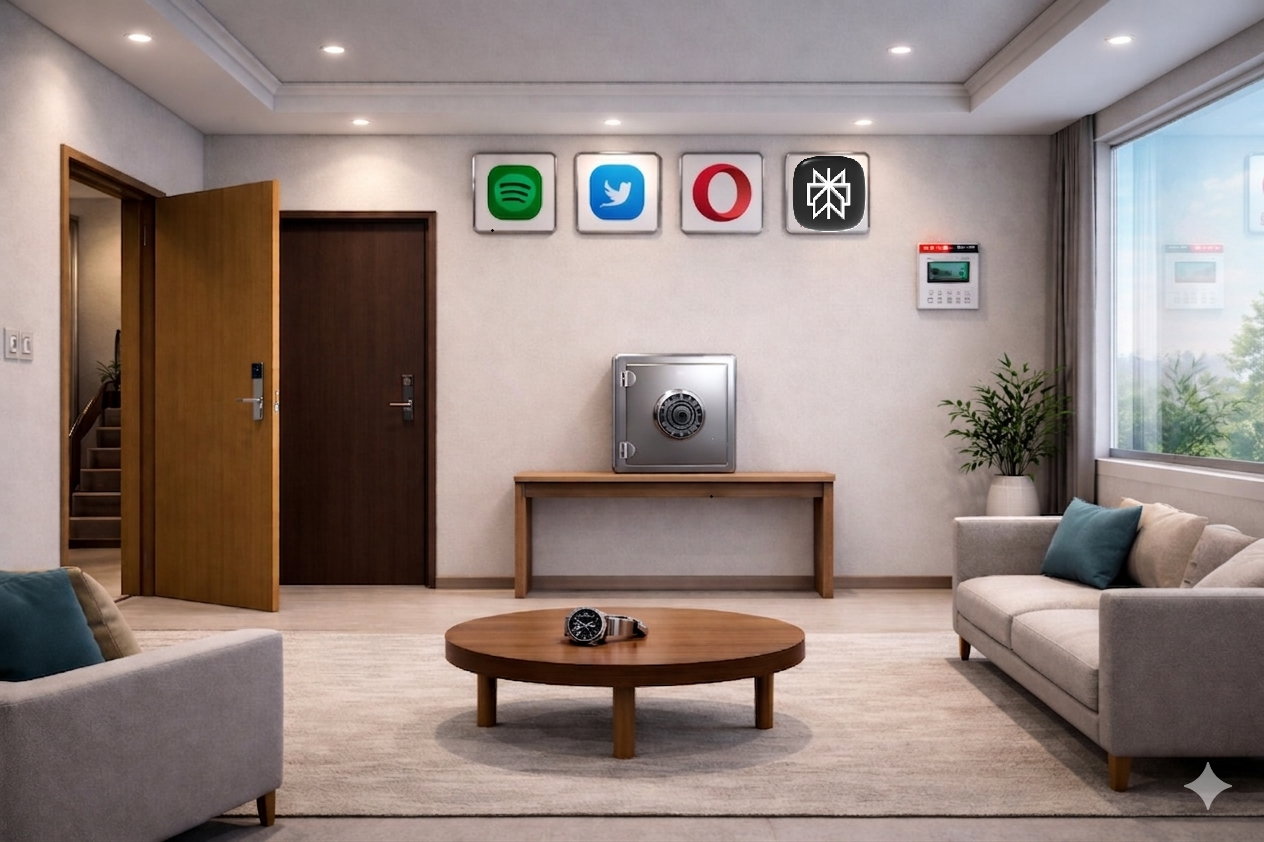
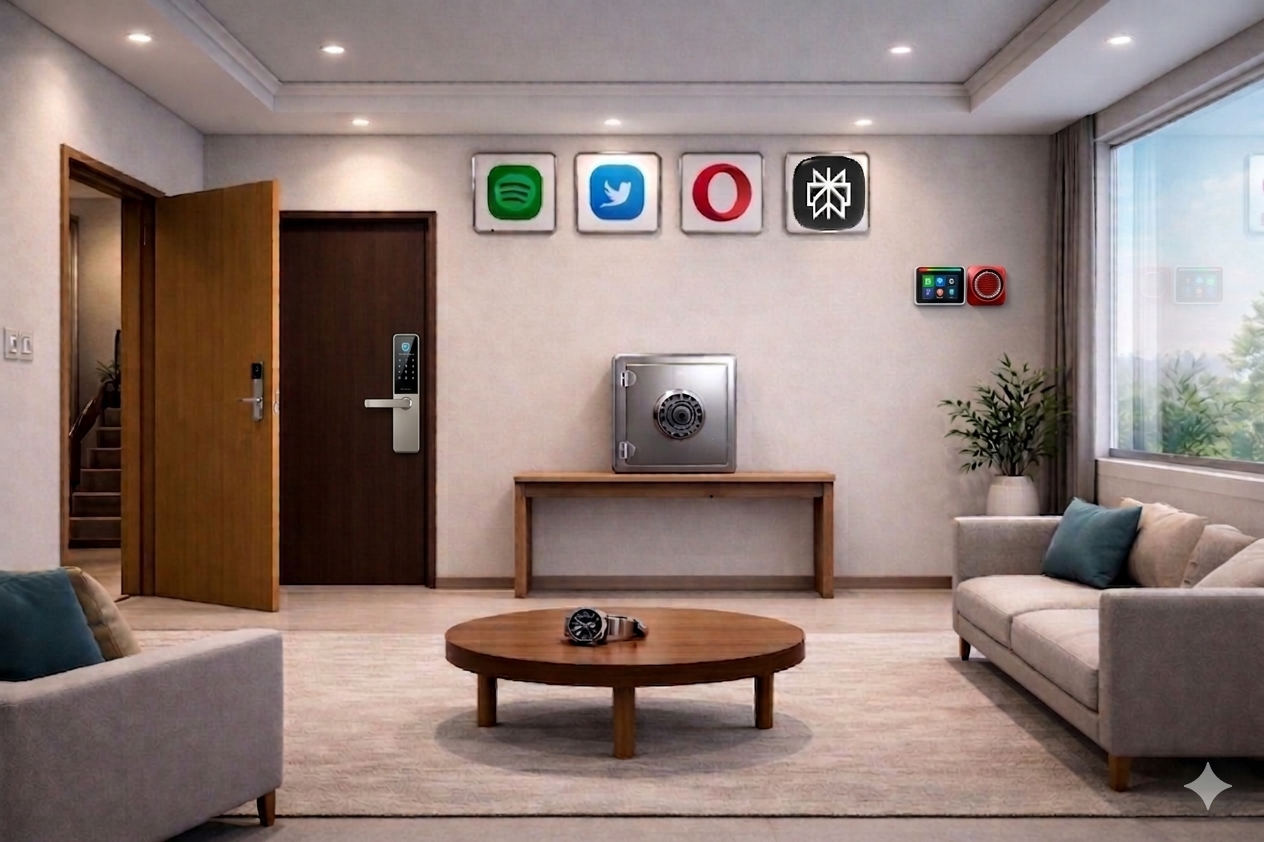
le

diff --git a/osi_game_structure/floors/application_layer.py b/osi_game_structure/floors/application_layer.py
@@ -1,6 +1,231 @@
+import pygame
+import sys
+from game.rotary_lock_game import run_rotary_lock_game
 
-# Placeholder for this OSI layer
-# You will implement this floor later.
 
-def run_layer(screen):
-    pass
+def run_application_layer(screen, inventory, application_state):
+
+    WIDTH, HEIGHT = screen.get_size()
+    clock = pygame.time.Clock()
+    font = pygame.font.SysFont(None, 35)
+
+    # ---------- IMAGES ----------
+    bg = pygame.image.load("assets/application.png")
+    bg = pygame.transform.scale(bg, (WIDTH, HEIGHT))
+
+    locker_img = pygame.image.load("assets/locker.png")
+    locker_open_img = pygame.image.load("assets/locker_open.png")
+
+    siren_img = pygame.image.load("assets/siren.png")
+
+    closed_door_img = pygame.image.load("assets/underground_door.png")
+    open_door_img = pygame.image.load("assets/openeddoor7.png")
+
+    note_img = pygame.image.load("assets/final_note.jpeg")
+    watch_img = pygame.image.load("assets/watch.png")
+
+    # ---------- RECTS ----------
+    back_rect = pygame.Rect(20, 200, 100, 200)  # back to presentation
+    door_rect = pygame.Rect(140, 200, 140, 250)
+
+    locker_rect = pygame.Rect(WIDTH // 2 - 100, 200, 200, 200)
+    siren_rect = pygame.Rect(WIDTH // 2 + 120, 200, 100, 100)
+
+    table_rect = pygame.Rect(WIDTH // 2 - 120, HEIGHT - 200, 240, 120)
+
+    window_rect = pygame.Rect(WIDTH - 200, 150, 150, 250)
+
+    back_btn = pygame.Rect(WIDTH // 2 - 50, HEIGHT - 120, 100, 40)
+
+    input_box = pygame.Rect(WIDTH // 2 - 150, HEIGHT // 2 - 30, 300, 60)
+
+    # ---------- STATE ----------
+    if not application_state:
+        application_state.update({
+            "locker_unlocked": False,
+            "siren_active": False,
+            "siren_stopped": False,
+            "door_unlocked": False,
+            "viewing_note": False,
+            "viewing_watch": False,
+            "entering_password": False,
+            "entering_siren_code": False,
+            "input_text": "",
+            "broken_glass": False
+        })
+
+    # Flicker control
+    flicker = False
+    flicker_timer = 0
+
+    while True:
+        dt = clock.tick(60)
+        flicker_timer += dt
+
+        # ---------- EVENTS ----------
+        for event in pygame.event.get():
+            if event.type == pygame.QUIT:
+                pygame.quit()
+                sys.exit()
+
+            # ---------- KEY INPUT ----------
+            if event.type == pygame.KEYDOWN:
+
+                if application_state["entering_password"]:
+                    if event.key == pygame.K_RETURN:
+                        if application_state["input_text"].lower() == "pineapple":
+                            application_state["door_unlocked"] = True
+                        application_state["entering_password"] = False
+                        application_state["input_text"] = ""
+                    elif event.key == pygame.K_BACKSPACE:
+                        application_state["input_text"] = application_state["input_text"][:-1]
+                    else:
+                        application_state["input_text"] += event.unicode
+
+                elif application_state["entering_siren_code"]:
+                    if event.key == pygame.K_RETURN:
+                        if application_state["input_text"].lower() == "stop":
+                            application_state["siren_stopped"] = True
+                        application_state["entering_siren_code"] = False
+                        application_state["input_text"] = ""
+                    elif event.key == pygame.K_BACKSPACE:
+                        application_state["input_text"] = application_state["input_text"][:-1]
+                    else:
+                        application_state["input_text"] += event.unicode
+
+            # ---------- MOUSE ----------
+            if event.type == pygame.MOUSEBUTTONDOWN:
+
+                # PRIORITY STATES
+                if application_state["entering_password"] or application_state["entering_siren_code"]:
+                    continue
+
+                if application_state["viewing_note"] or application_state["viewing_watch"]:
+                    if back_btn.collidepoint(event.pos):
+                        application_state["viewing_note"] = False
+                        application_state["viewing_watch"] = False
+                    continue
+
+                inventory.handle_click(event.pos, screen)
+
+                # ---------- BACK ----------
+                if back_rect.collidepoint(event.pos):
+                    return "presentation"
+
+                # ---------- DOOR ----------
+                elif door_rect.collidepoint(event.pos):
+                    if not application_state["door_unlocked"]:
+                        application_state["entering_password"] = True
+                    else:
+                        return "underground"
+
+                # ---------- LOCKER ----------
+                elif locker_rect.collidepoint(event.pos):
+
+                    if not application_state["locker_unlocked"]:
+                        if run_rotary_lock_game(screen):
+                            application_state["locker_unlocked"] = True
+                            application_state["siren_active"] = True
+
+                    elif application_state["locker_unlocked"] and application_state["siren_stopped"]:
+                        application_state["viewing_note"] = True
+
+                # ---------- SIREN ----------
+                elif siren_rect.collidepoint(event.pos):
+                    if application_state["siren_active"] and not application_state["siren_stopped"]:
+                        application_state["entering_siren_code"] = True
+
+                # ---------- TABLE ----------
+                elif table_rect.collidepoint(event.pos):
+                    application_state["viewing_watch"] = True
+
+                # ---------- WINDOW ----------
+                elif window_rect.collidepoint(event.pos):
+                    if not application_state["broken_glass"]:
+                        if inventory.selected_item == "axe":
+                            application_state["broken_glass"] = True
+                    else:
+                        print("GAME OVER")
+                        pygame.quit()
+                        sys.exit()
+
+        # ---------- DRAW ----------
+        screen.blit(bg, (0, 0))
+
+        # Locker
+        if application_state["locker_unlocked"]:
+            screen.blit(pygame.transform.scale(locker_open_img, locker_rect.size), locker_rect)
+        else:
+            screen.blit(pygame.transform.scale(locker_img, locker_rect.size), locker_rect)
+
+        # Door
+        if application_state["door_unlocked"]:
+            screen.blit(pygame.transform.scale(open_door_img, door_rect.size), door_rect)
+        else:
+            screen.blit(pygame.transform.scale(closed_door_img, door_rect.size), door_rect)
+
+        # ---------- SIREN FLICKER ----------
+        if application_state["siren_active"] and not application_state["siren_stopped"]:
+            if flicker_timer > 250:
+                flicker = not flicker
+                flicker_timer = 0
+
+            if flicker:
+                screen.blit(pygame.transform.scale(siren_img, (WIDTH, HEIGHT)), (0, 0))
+
+        # ---------- POPUPS ----------
+        if application_state["viewing_note"]:
+            overlay = pygame.Surface((WIDTH, HEIGHT), pygame.SRCALPHA)
+            overlay.fill((0, 0, 0, 180))
+            screen.blit(overlay, (0, 0))
+            screen.blit(pygame.transform.scale(note_img, (WIDTH - 200, HEIGHT - 100)), (100, 50))
+
+        if application_state["viewing_watch"]:
+            overlay = pygame.Surface((WIDTH, HEIGHT), pygame.SRCALPHA)
+            overlay.fill((0, 0, 0, 180))
+            screen.blit(overlay, (0, 0))
+            screen.blit(pygame.transform.scale(watch_img, (WIDTH - 200, HEIGHT - 100)), (100, 50))
+
+        if application_state["viewing_note"] or application_state["viewing_watch"]:
+            pygame.draw.rect(screen, (200, 50, 50), back_btn)
+            screen.blit(font.render("BACK", True, (255, 255, 255)),
+                        (back_btn.x + 10, back_btn.y + 5))
+
+        # ---------- INPUT UI ----------
+        if application_state["entering_password"] or application_state["entering_siren_code"]:
+            overlay = pygame.Surface((WIDTH, HEIGHT), pygame.SRCALPHA)
+            overlay.fill((0, 0, 0, 180))
+            screen.blit(overlay, (0, 0))
+
+            pygame.draw.rect(screen, (255, 255, 255), input_box, 2)
+
+            text_surface = font.render(application_state["input_text"], True, (255, 255, 255))
+            screen.blit(text_surface, (input_box.x + 10, input_box.y + 15))
+
+            label = "Enter Password" if application_state["entering_password"] else "Enter Code"
+            screen.blit(font.render(label, True, (255, 255, 255)),
+                        (input_box.x, input_box.y - 40))
+
+        # ---------- DEBUG RECTS ----------
+
+        # Back - YELLOW
+        pygame.draw.rect(screen, (255, 255, 0), back_rect, 2)
+
+        # Door - RED
+        pygame.draw.rect(screen, (255, 0, 0), door_rect, 2)
+
+        # Locker - GREEN
+        pygame.draw.rect(screen, (0, 255, 0), locker_rect, 2)
+
+        # Siren - PURPLE
+        pygame.draw.rect(screen, (160, 32, 240), siren_rect, 2)
+
+        # Table - CYAN
+        pygame.draw.rect(screen, (0, 255, 255), table_rect, 2)
+
+        # Window - ORANGE
+        pygame.draw.rect(screen, (255, 165, 0), window_rect, 2)
+
+        inventory.draw(screen)
+
+        pygame.display.update()
